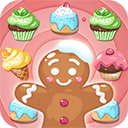
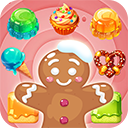
修改网页内容
修改网页内容

diff --git a/README.md b/README.md
@@ -1,17 +1,72 @@
-# Pulu Network Official Page
+# Pulu Network
 
-## Email
-If you encounter any problems, please contact us through this email
+**A two-person independent mobile game studio**
 
-116779362@qq.com
+Pulu Network is the publishing brand of our legally registered independent game
+company. Our two-person team develops, publishes, and operates original mobile
+games for players around the world.
 
-## Phone Number
-+8617317803869
+Pulu Network 是我们依法注册成立的独立游戏公司所运营的发行品牌。我们是一支由两名成员组成的独立游戏团队，专注于原创移动游戏的开发、发行与长期运营。
 
-### Follow our fanpage on other platform
-[[Facebook]](https://www.facebook.com/pulunetwork) [[Twitter]](https://twitter.com/CodeFgame) [[TikTok]](https://tiktok.com/@pulunetwork) [[Discord]](https://discord.gg/JgEreHM4ht)
+## About Our Business / 关于我们
 
-[[Google play]](https://play.google.com/store/apps/dev?id=7630802525166577768) [[App Store]](https://itunes.apple.com/developer/id1040525394)
+We develop and publish our own games on Google Play and the App Store. Our
+business is supported by in-app advertising and in-app purchases. We use Google
+Ads only to promote and evaluate our own games; we are not an advertising agency
+and do not manage advertising for third-party clients.
+
+我们在 Google Play 和 App Store 开发并发行自有游戏，主要通过应用内广告和应用内购买获得收入。我们仅使用 Google Ads 推广和分析自己的游戏，不是广告代理商，也不为第三方客户管理广告。
+
+## Google Ads API Use / Google Ads API 使用说明
+
+We are developing a private, internal reporting tool for our two team members.
+The tool uses the Google Ads API only with Google Ads accounts owned or managed
+by our company.
+
+The tool is used to:
+
+- Retrieve aggregated reporting data such as impressions, clicks, advertising
+  cost, conversions, and campaign or ad group performance.
+- Create internal reports that help us evaluate user acquisition performance
+  and return on advertising spend for our games.
+- Reduce repetitive manual report downloads from the Google Ads interface.
+
+The tool is for internal use only. It is not available to external users, does
+not manage third-party advertising accounts, and does not sell or share Google
+Ads data. It does not create customer accounts or modify campaigns, ads, bids,
+or budgets.
+
+我们的工具仅供两名团队成员内部使用，只读取公司自有或经公司授权管理的 Google Ads 账户汇总报告数据，用于评估游戏买量效果和广告投入回报。该工具不向外部用户开放，不管理第三方广告账户，不出售或共享 Google Ads 数据，也不会创建客户账户或修改广告系列、广告、出价和预算。
+
+### Internal workflow / 内部流程
+
+**Our Google Ads accounts → Google Ads API → Private internal reports → Our two-person team**
+
+Access is restricted to authorized team members. Developer tokens, OAuth
+credentials, customer identifiers, and other sensitive account information are
+never published on this website or shared with external users.
+
+## Games and Channels / 游戏与官方渠道
+
+Our games are published through our official developer pages:
+
+[[Google Play]](https://play.google.com/store/apps/dev?id=7630802525166577768)
+[[App Store]](https://itunes.apple.com/developer/id1040525394)
+
+Follow Pulu Network:
+[[LinkedIn]](https://www.linkedin.com/in/wangxiaojie87/)
+[[Facebook]](https://www.facebook.com/pulunetwork)
+[[Twitter]](https://twitter.com/CodeFgame)
+[[TikTok]](https://tiktok.com/@pulunetwork)
+[[Discord]](https://discord.gg/JgEreHM4ht)
+
+## Contact / 联系我们
+
+- Customer support / 游戏客服：116779362@qq.com
+- Privacy and data requests / 隐私与数据请求：116779363@qq.com
+- Phone / 电话：+8617317803869
+
+[Privacy Policy / 隐私政策](PrivacyPolicy.txt)
 
 ## Download Link
 ![img](https://puluwang.github.io/img/BirdCrush2.png)
@@ -173,4 +228,3 @@ Download on [[Google play]](https://play.google.com/store/apps/details?id=com.co
 ![img](https://puluwang.github.io/img/WhisperingBay.png)
 ### WhisperingBay 秘语湾	
 Download on [[Google play]](https://play.google.com/store/apps/details?id=com.codef.mergeslice)
-
